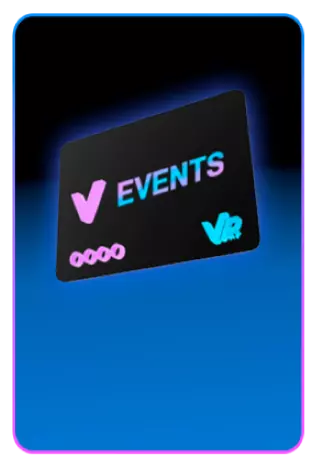
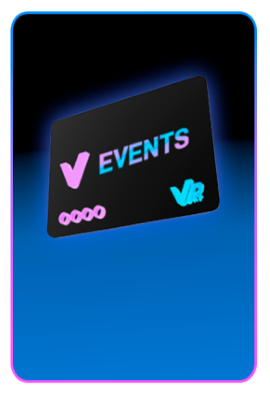
Cambios

diff --git a/src/app/benefits/benefits.component.ts b/src/app/benefits/benefits.component.ts
@@ -76,7 +76,6 @@ export class BenefitsComponent {
     if (this.x > 11) {
       this.x = 1;
     }
-    console.log(this.x)
   }
 
   res() {
@@ -84,6 +83,5 @@ export class BenefitsComponent {
     if (this.x < 1) {
       this.x = 11;
     }
-    console.log(this.x)
   }
 }

diff --git a/src/app/benefits/benefits.component.css b/src/app/benefits/benefits.component.css
@@ -292,7 +292,7 @@ input[type="radio"] {
     width: 30%;
   }
   .card img{
-    width: 100%;
+    width: 115%;
     height: 95%;
     object-fit: cover;
   }
